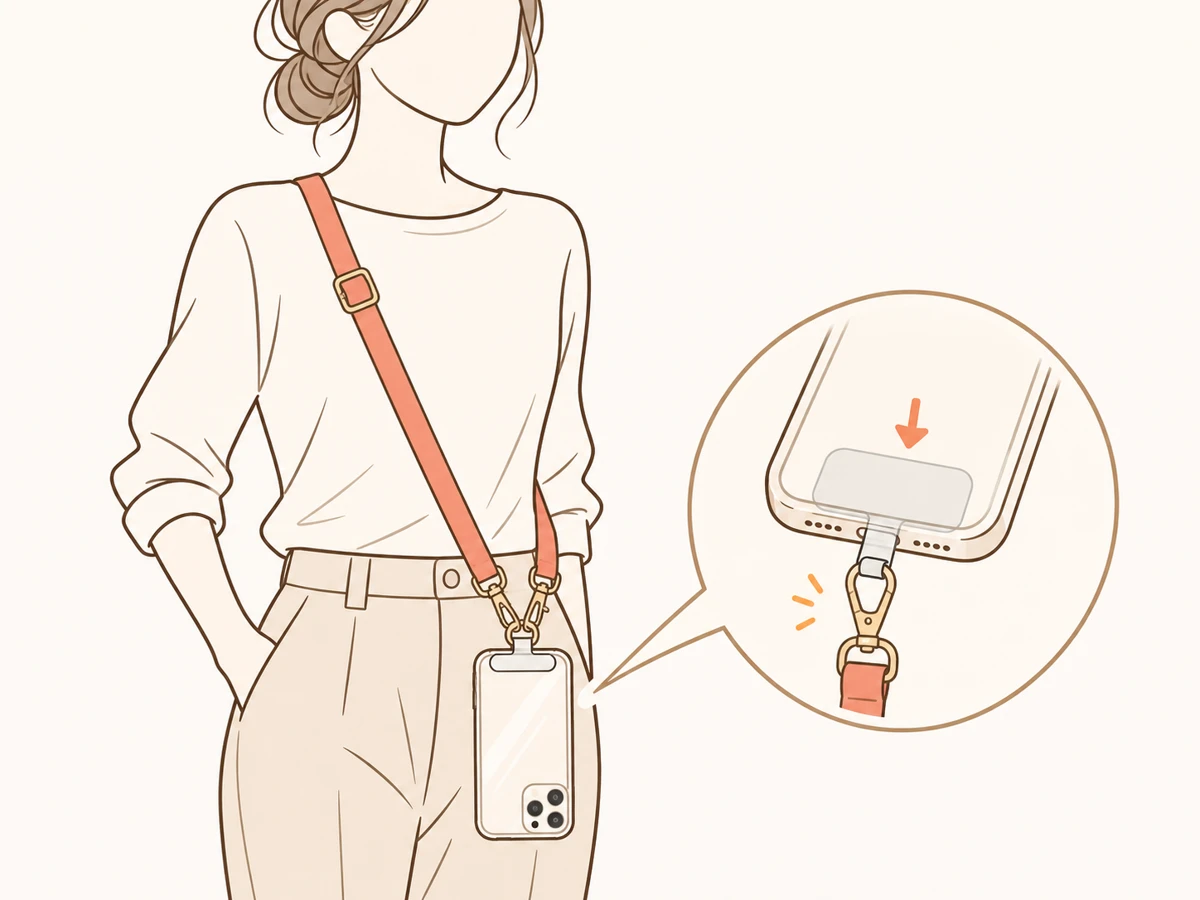
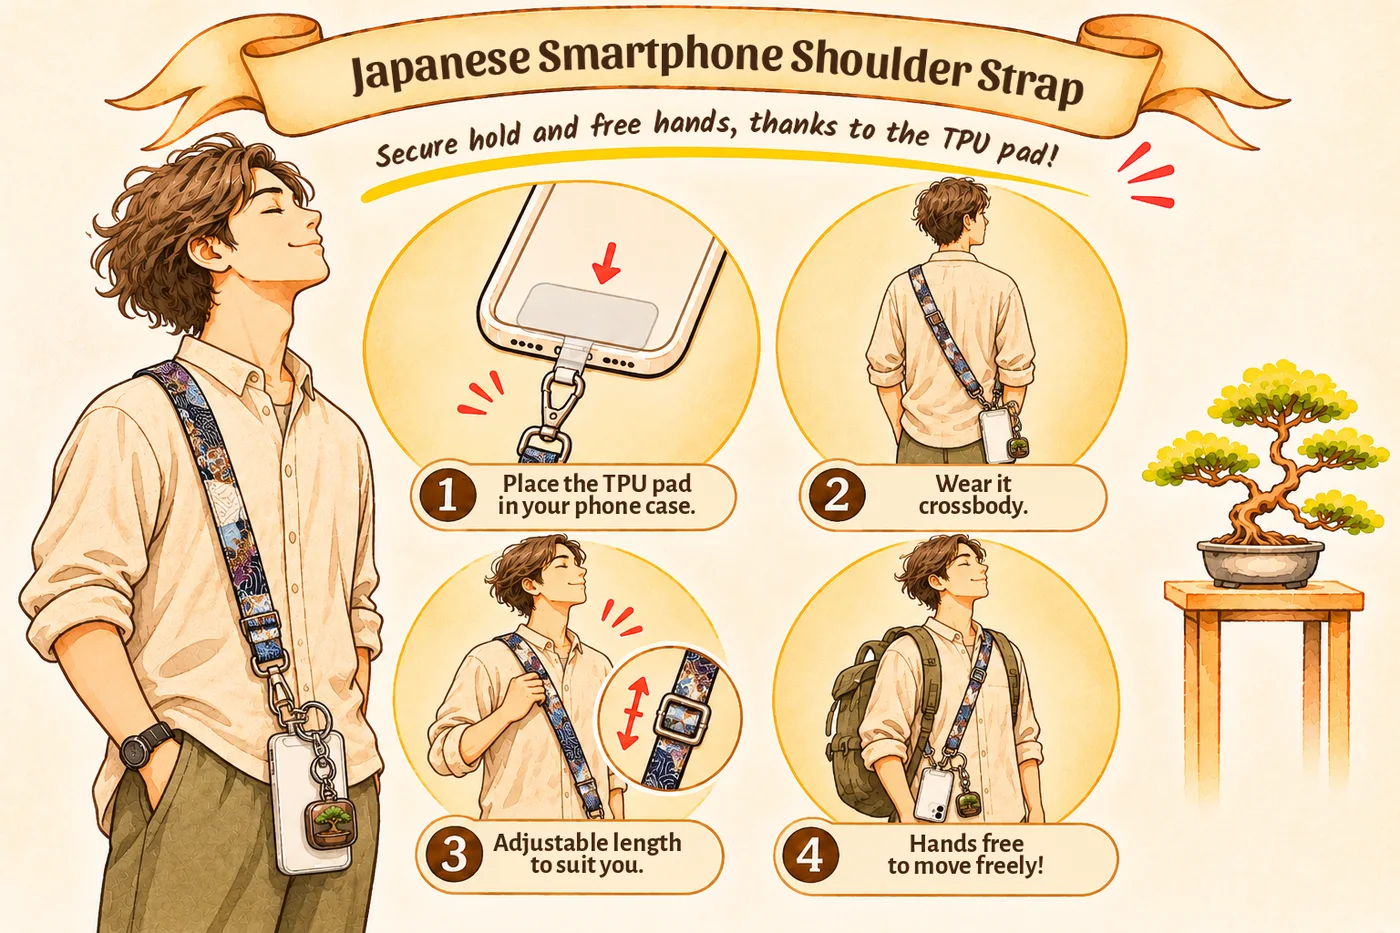
HOW TO USE: men's illustrations for p01 p02 p04 p08 p13 p46; new HOW TO USE for p37 and p38
Claude-Session: https://claude.ai/code/session_01Fnek4qzkE4dLMJdcj4UxPU

diff --git a/products.js b/products.js
@@ -54,6 +54,7 @@ const products = [
       "Images/3way-15.webp"
     ],
     "description": "Wear as a backpack, shoulder bag or crossbody bag. Choose your pattern.",
+    "howto": {"image": "Images/size/howto-p37.webp", "alt": "A man wearing the Pebble bag as a backpack, crossbody and as a chest bag, with close-ups of the clips and the inside", "points": ["Wear it as a small backpack.", "Wear it crossbody.", "Wear it in front as a chest bag.", "Switch easily between the 3 ways with the clips.", "Compact, with room for your phone, wallet and small things."]},
     "size": "Strap length 127 cm",
     "sizeGuide": {"wearImage": "Images/size/wear-p37.webp", "wearCaption": "Backpack · Shoulder bag · Crossbody", "kind": "3-Way Bag", "style": "crossbody", "shape": "square", "width": 17.8, "height": 22.9, "depth": 6.4, "depthBase": true, "strap": 127},
     "variants": [
@@ -73,6 +74,7 @@ const products = [
       "Images/added-bag-9.webp"
     ],
     "description": "Handmade baguette bag with a drawstring opening. Choose your pattern.",
+    "howto": {"image": "Images/size/howto-p38.webp", "alt": "A man carrying the baguette bag crossbody and on the shoulder, with a baguette and ikebana flowers inside", "points": ["Wear it crossbody.", "Carry it on your shoulder.", "Made to carry a baguette.", "Also great for carrying flowers for ikebana."]},
     "size": "Height 70 cm · Width 20 cm · Depth 10 cm",
     "variants": [
       {"name": "Emerald Green Fan Pattern", "image": "Images/added-bag-1.webp", "images": ["Images/added-bag-1.webp"], "size": "Height 70 cm · Width 20 cm · Depth 10 cm", "sizeGuide": {"wearImage": "Images/size/wear-baguette.webp", "wearCaption": "Crossbody · Shoulder bag", "kind": "Baguette Bag", "form": "Drawstring", "shape": "square", "width": 20, "height": 70, "depth": 10}},
@@ -134,7 +136,7 @@ const products = [
       "Images/01-04.webp"
     ],
     "description": "A Japanese-fabric shoulder strap for your smartphone. Wear your phone across the body and keep both hands free. The length is measured when fully extended. Bonsai key charm included.",
-    "howto": {"image": "Images/size/howto-p01.webp", "alt": "A woman wearing her phone across the body on the strap, with a close-up of the TPU pad and clip", "points": ["Wear your phone across the body and keep both hands free.", "Adjust the length with the buckle on the strap.", "Place the TPU pad inside your phone case, then clip the strap onto it."]},
+    "howto": {"image": "Images/size/howto-p01.webp", "alt": "A man wearing his phone across the body on the Japanese-fabric strap, with close-ups of the TPU pad and the length adjuster", "points": ["Place the TPU pad inside your phone case, then clip the strap onto it.", "Wear your phone across the body.", "Adjust the length with the buckle to suit you.", "Keep both hands free and move freely, even with a backpack."]},
     "size": "Width 1.5 cm · Length 145 cm (fully extended)",
     "variants": [
       {"name": "Crimson", "image": "Images/01-00.webp"},
@@ -155,7 +157,7 @@ const products = [
       "Images/02-09.webp"
     ],
     "description": "A convenient retractable strap that keeps small essentials within easy reach. The cord extends up to 33 cm, making it practical for everyday use. Retractable reel and cherry blossom charm.",
-    "howto": {"image": "Images/size/howto-p02.webp", "alt": "A woman wearing the neck strap with a phone, with a badge, and with both, plus close-ups of the adjuster, the retractable reel and the TPU pad", "points": ["Carry your phone around your neck.", "Use it as a badge reel lanyard for an ID or access card.", "Attach your phone and a badge together.", "Adjust the length with the adjuster at the back of the neck.", "Retractable reel: pull out the cord when you need it.", "TPU pad included: place it inside your phone case, then clip the strap onto it."]},
+    "howto": {"image": "Images/size/howto-p02.webp", "alt": "A man wearing the neck strap with a phone, with a badge, and with both, plus close-ups of the adjuster, the retractable reel and the TPU pad", "points": ["Carry your phone around your neck.", "Use it as a badge reel lanyard for an ID or access card, or a trolley token.", "Attach your phone and a badge together.", "Adjust the length with the adjuster at the back of the neck.", "Retractable reel: pull out the cord when you need it.", "TPU pad included: place it inside your phone case, then clip the strap onto it."]},
     "size": "Retractable cord: up to 33 cm · Strap: 96 cm circumference × 8 mm width",
     "variants": [
       {"name": "Blue", "image": "Images/02-06.webp", "images": ["Images/02-06.webp", "Images/02-07.webp"]},
@@ -190,7 +192,7 @@ const products = [
       "Images/04-16.webp"
     ],
     "description": "A practical pouch for carrying dog waste bags, with an additional holder for attaching a used waste bag. Handy for dog walks and everyday outings. Floral fabric case with holder.",
-    "howto": {"image": "Images/size/howto-p04.webp", "alt": "A woman walking her pug with the waste bag pouch on her bag, the steps for using it, and the pouch with its retractable reel", "points": ["Pull out the retractable reel to bring the pouch close to the poop, so you don't have to bend down.", "Take a bag out of the pouch with one hand.", "Pick up the poop with the bag, then tuck the used bag into the holder.", "The holder keeps the used bag in place, so you can carry it neatly.", "The set: a pouch that stores the bags, plus a retractable reel."]},
+    "howto": {"image": "Images/size/howto-p04.webp", "alt": "A man walking his pug with the waste bag pouch on his tote bag, the steps for using it, and the pouch, reel and pink holder", "points": ["Pull out the retractable reel to bring the pouch close to the poop, so you don't have to bend down.", "Take a bag out of the mini pouch with one hand.", "Pick up the poop, tie the bag and push it into the pink holder.", "The holder keeps the tied bag in place, so it's cleaner to carry.", "Included: the mini pouch, the retractable reel and the holder."]},
     "size": "Width 12 cm · Height 7 cm · Depth 5 cm",
     "sizeGuide": {"width": 12, "height": 7, "depth": 5},
     "variants": [
@@ -252,7 +254,7 @@ const products = [
       "Images/08-grey.webp"
     ],
     "description": "A versatile mobile phone holder designed for four different ways of use. The leather strap is available in a choice of colours. Wear on a belt, across the body or at the wrist. Accessories included.",
-    "howto": {"image": "Images/size/howto-p08.webp", "alt": "The phone case attached to a backpack strap, worn crossbody, hung from the wrist or clipped to a phone with a TPU pad, and clipped to a jeans belt loop", "points": ["Wrap the hook-and-loop band on the back around a backpack or sling bag strap.", "Wear it crossbody as a pochette with the shoulder strap.", "Hang it from your wrist with the wrist strap. You can also take the wrist strap off and attach it straight to your phone with the TPU pad placed inside your phone case.", "Clip the swivel hook at the top onto a belt loop on your jeans."]},
+    "howto": {"image": "Images/size/howto-p08.webp", "alt": "A man wearing the phone case on a backpack strap, crossbody, on the wrist or clipped to a phone with a TPU pad, and on a jeans belt loop", "points": ["Wrap the hook-and-loop band on the back around a backpack or sling bag strap.", "Wear it crossbody as a pochette with the shoulder strap.", "Hang it from your wrist with the wrist strap. You can also take the wrist strap off and attach it straight to your phone with the TPU pad placed inside your phone case.", "Clip the swivel hook at the top onto a belt loop on your jeans."]},
     "size": "Height 20 cm · Width 11 cm · Depth 4 cm · Strap 114 cm × 1 cm (faux leather or cotton)",
     "strapOptions": {"image": "Images/straps-numbered.webp", "note": "Choose from 6 straps (114 cm long, 1 cm wide): 4 faux leather and 2 cotton. The strap is included in the price.", "groups": [{"name": "Faux leather", "items": ["A-1", "A-2", "A-3", "A-4"]}, {"name": "Cotton", "items": ["B-1", "B-2"]}]},
     "sizeGuide": {"width": 11, "height": 20, "depth": 4, "extra": ["Strap 114 cm × 1 cm (faux leather or cotton)"]},
@@ -338,7 +340,7 @@ const products = [
       "Images/13-47.webp"
     ],
     "description": "A versatile accessory designed to be used in three different ways. Its compact shape makes it convenient for everyday use. Leather flap, shoulder and wrist straps, and belt attachment.",
-    "howto": {"image": "Images/size/howto-p13.webp", "alt": "The smartphone pouch worn across the body, hung from the wrist and attached to a belt", "points": ["As a crossbody pochette with the shoulder strap.", "Hang it from your wrist with the wrist strap.", "Slide your belt through the belt loop to wear it at your waist."]},
+    "howto": {"image": "Images/size/howto-p13.webp", "alt": "A man wearing the smartphone pouch across the body, hung from the wrist and attached to a belt", "points": ["As a crossbody pochette with the shoulder strap.", "Hang it from your wrist with the wrist strap.", "Slide your belt through the belt loop to wear it at your waist."]},
     "size": "Height 20 cm · Width 13 cm",
     "sizeGuide": {"width": 13, "height": 20},
     "variants": [
@@ -618,7 +620,7 @@ const products = [
     "category": "Bags",
     "images": ["Images/IMG_6465 Copy.webp", "Images/ChatGPT Image Oct 8, 2026, 02_31_22 PM.webp", "Images/ChatGPT Image Oct 8, 2026, 02_31_17 PM.webp", "Images/IMG_6467 Copy.webp", "Images/ChatGPT Image Oct 8, 2026, 02_31_53 PM (1).webp", "Images/ChatGPT Image Oct 8, 2026, 02_31_03 PM.webp", "Images/ChatGPT Image Oct 8, 2026, 02_31_10 PM.webp"],
     "description": "Hip bag for scissors and tools with 3 pockets and 1 zip pocket. Adjustable strap. Choose your pattern.",
-    "howto": {"image": "Images/size/howto-p46.webp", "alt": "A woman gardening with the hip hang scissor case, with close-ups of a water bottle clipped on, a smartphone in the pocket and garden scissors in the pocket", "lead": "A handy waist pouch for gardening and bonsai care.", "points": ["Clip a water bottle on with the silicone bottle holder.", "Your smartphone fits in the pocket.", "Garden scissors and other tools fit too.", "The waist size can be made smaller. Just tell us the size you need."]},
+    "howto": {"image": "Images/size/howto-p46.webp", "alt": "A man gardening with the hip hang scissor case, with close-ups of a water bottle clipped on, a smartphone in the pocket and garden scissors in the pocket", "points": ["Clip a water bottle on with the silicone bottle holder.", "Your smartphone fits in the pocket.", "Garden scissors and other tools fit too.", "The waist size can be made smaller. Just tell us the size you need."]},
     "size": "Width 48 cm · Height 26 cm · Pocket depth 4 cm · Strap 58–89 cm",
     "sizeGuide": {"width": 48, "height": 26, "extra": ["Pocket depth 4 cm", "Strap 58–89 cm"]},
     "variants": [
